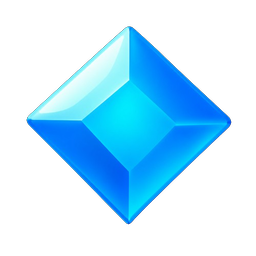
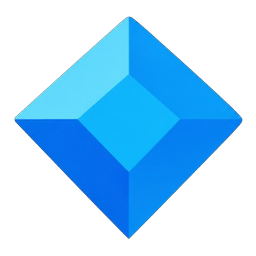
v68.3: gemmes/cristal/fleur = nouvelles images posees sur le bloc, cristal a 2 vies (fissure puis recolte), cadre de la grille symetrique (cache trop etroit), icone medaille

Changed region(s): [[0.0625, 0.0625, 0.9688, 0.9375], [0.5625, 0.5938, 0.5938, 0.625], [0.5312, 0.625, 0.5625, 0.6562]]

diff --git a/index.html b/index.html
@@ -769,7 +769,7 @@ body.noAds #bannerBox{visibility:hidden}
         <div class="statBox"><div class="sv" id="meStreak">0</div><div class="sl">Day Streak</div></div>
       </div>
       <div class="meRows" style="margin-top:22px">
-        <button class="btn3d green" id="meAch" style="--k:1"><svg class="ico" viewBox="0 0 24 24"><circle cx="12" cy="8.4" r="5.6"/><path d="M8.6 12.9 6.8 21l5.2-2.6 5.2 2.6-1.8-8.1A7.4 7.4 0 0 1 12 14a7.4 7.4 0 0 1-3.4-1.1z"/></svg>Medal<em>›</em></button>
+        <button class="btn3d green" id="meAch" style="--k:1"><svg class="ico" viewBox="3.2 0.8 17.6 21.4"><path d="M6.8 1.8h3.6l1.6 4.4 1.6-4.4h3.6l-3.2 8.2a6.4 6.4 0 0 0-4 0z"/><path fill-rule="evenodd" d="M12 9.4a5.9 5.9 0 1 0 0 11.8 5.9 5.9 0 0 0 0-11.8zM12 12l1.1 2.4 2.6.3-1.9 1.8.5 2.6-2.3-1.3-2.3 1.3.5-2.6-1.9-1.8 2.6-.3z"/></svg>Medal<em>›</em></button>
         <button class="btn3d lav" id="meAdv"><svg class="ico" viewBox="0 0 24 24"><circle cx="12" cy="12" r="9.2" fill="none" stroke="#fff" stroke-width="2.7"/><path d="M12 6.8V12l3.6 2.1" fill="none" stroke="#fff" stroke-width="2.7" stroke-linecap="round" stroke-linejoin="round"/></svg>Adventure<em>›</em></button>
         <button class="btn3d gold" id="meNoAds"><img class="ico" src="assets/ui/noads.png" alt="" style="width:30px;height:30px;object-fit:contain"/><span id="meNoAdsTxt">Remove Ads</span><em>›</em></button>
         <button class="btn3d lav" id="meIQ"><svg class="ico" viewBox="0 0 24 24"><path d="M12 3L3 20h18z" fill="none" stroke="#fff" stroke-width="2.4" stroke-linejoin="round"/><path d="M12 3v17" stroke="#fff" stroke-width="2"/></svg>Block Puzzle<em>›</em></button>
@@ -912,7 +912,7 @@ body.noAds #bannerBox{visibility:hidden}
           </div>
         </div>
         <div class="sepLine"></div>
-        <button class="btn3d green" id="btnSetMedal"><svg class="ico" viewBox="0 0 24 24"><circle cx="12" cy="8.4" r="5.6"/><path d="M8.6 12.9 6.8 21l5.2-2.6 5.2 2.6-1.8-8.1A7.4 7.4 0 0 1 12 14a7.4 7.4 0 0 1-3.4-1.1z"/></svg>Medal</button>
+        <button class="btn3d green" id="btnSetMedal"><svg class="ico" viewBox="3.2 0.8 17.6 21.4"><path d="M6.8 1.8h3.6l1.6 4.4 1.6-4.4h3.6l-3.2 8.2a6.4 6.4 0 0 0-4 0z"/><path fill-rule="evenodd" d="M12 9.4a5.9 5.9 0 1 0 0 11.8 5.9 5.9 0 0 0 0-11.8zM12 12l1.1 2.4 2.6.3-1.9 1.8.5 2.6-2.3-1.3-2.3 1.3.5-2.6-1.9-1.8 2.6-.3z"/></svg>Medal</button>
         <button class="btn3d lav" id="btnMoreSet"><svg class="ico" viewBox="0 0 24 24"><path d="M19.14 12.94c.04-.31.06-.62.06-.94s-.02-.63-.07-.94l2.03-1.58a.49.49 0 0 0 .12-.61l-1.92-3.32a.49.49 0 0 0-.59-.22l-2.39.95a7.03 7.03 0 0 0-1.62-.94l-.36-2.54a.48.48 0 0 0-.48-.4h-3.84c-.24 0-.43.17-.47.4l-.36 2.54c-.59.24-1.13.57-1.62.94l-2.39-.95a.49.49 0 0 0-.59.22L2.63 8.87a.48.48 0 0 0 .12.61l2.03 1.58c-.05.31-.07.63-.07.94s.02.63.07.94l-2.03 1.58a.49.49 0 0 0-.12.61l1.92 3.32c.12.22.37.3.59.22l2.39-.95c.5.38 1.03.7 1.62.94l.36 2.54c.05.23.24.4.48.4h3.84c.24 0 .44-.17.48-.4l.36-2.54a7.03 7.03 0 0 0 1.62-.94l2.39.95c.22.08.47 0 .59-.22l1.92-3.32a.49.49 0 0 0-.12-.61l-2.01-1.58zM12 15.6a3.6 3.6 0 1 1 0-7.2 3.6 3.6 0 0 1 0 7.2z"/></svg>More Settings</button>
         <div id="setGame">
           <div class="sepLine"></div>
@@ -2414,7 +2414,7 @@ return false}
 function hintFor(obj){
 if(obj[0]==='lines')return 'Blast '+obj[1]+' lines';
 if(obj[0]==='score')return 'Reach '+obj[1].toLocaleString('en-US')+' pts';
-if(obj[0]==='items'){const n={1:'blue gems',2:'orange gems',3:'bushes',4:'ice',5:'locks'};return 'Collect '+Object.keys(obj[1]).map(k=>obj[1][k]+' '+n[k]).join(' + ')}
+if(obj[0]==='items'){const n={1:'blue gems',2:'orange gems',3:'bushes',4:'crystals',5:'locks'};return 'Collect '+Object.keys(obj[1]).map(k=>obj[1][k]+' '+n[k]).join(' + ')}
 return 'Clear the whole board'}
 function itemTotal(it){let n=0;for(const k in it)n+=it[k];return n}
 /* v67 : plus de niveaux chaine/combo — lignes, score, ou ELEMENTS A RECUPERER (gemmes bleues 1, oranges 2, buissons 3) */
@@ -2694,7 +2694,7 @@ const g=c.createRadialGradient(cx,cy,1,cx,cy,bw*.32);
 g.addColorStop(0,'#fff3b0');g.addColorStop(.5,'#ff8c28');g.addColorStop(1,'rgba(255,80,20,0)');
 c.fillStyle=g;c.beginPath();c.arc(cx,cy,bw*.32,0,6.3);c.fill();c.restore()}
 function drawBushIcon(c,x,y,s){
-const im=UIAssets.get('bush');if(im){const q=s*.02;c.drawImage(im,x+q,y+q,s-q*2,s-q*2);return}
+const im=UIAssets.get('bush');if(im){const d=s*.66;c.drawImage(im,x+(s-d)/2,y+(s-d)/2,d,d);return}
 const p=s*.045,w=s-p*2;c.save();c.translate(x+p,y+p);
 const g=c.createLinearGradient(0,0,0,w);g.addColorStop(0,'#46C446');g.addColorStop(1,'#1E8F2A');
 c.fillStyle=g;rr(c,0,0,w,w,w*.12);c.fill();c.lineWidth=Math.max(1.5,w*.05);c.strokeStyle='#176B1F';c.stroke();
@@ -2717,16 +2717,13 @@ c.stroke();
 c.lineWidth=3;c.strokeStyle='#9A6200';const g=c.createLinearGradient(0,-3,0,19);g.addColorStop(0,'#FFD84A');g.addColorStop(1,'#F0A000');c.fillStyle=g;
 rr(c,-15,-3,30,23,5);c.fill();c.stroke();
 c.fillStyle='#6B3F00';c.beginPath();c.arc(0,8,3.6,0,6.3);c.fill();c.fillRect(-1.5,8,3,7);c.restore()}
-function drawIceOverlay(c,x,y,s,hp){const p=s*.035;c.save();
-const imI=UIAssets.get('ice');if(imI){c.globalAlpha=.94;c.drawImage(imI,x+p,y+p,s-2*p,s-2*p);c.globalAlpha=1;
-if(hp<=1){c.strokeStyle='rgba(40,95,170,.9)';c.lineWidth=Math.max(1.4,s*.05);c.lineCap='round';c.lineJoin='round';c.beginPath();c.moveTo(x+s*.52,y+s*.1);c.lineTo(x+s*.42,y+s*.4);c.lineTo(x+s*.62,y+s*.55);c.lineTo(x+s*.46,y+s*.92);c.moveTo(x+s*.42,y+s*.4);c.lineTo(x+s*.16,y+s*.52);c.stroke()}
-c.restore();return}
-const g=c.createLinearGradient(x,y,x+s,y+s);g.addColorStop(0,'rgba(240,252,255,.9)');g.addColorStop(1,'rgba(150,208,248,.82)');
-c.fillStyle=g;rr(c,x+p,y+p,s-2*p,s-2*p,s*.14);c.fill();
-c.strokeStyle='rgba(255,255,255,.95)';c.lineWidth=Math.max(1.5,s*.04);c.stroke();
-c.fillStyle='rgba(255,255,255,.65)';c.beginPath();c.moveTo(x+s*.16,y+s*.34);c.lineTo(x+s*.34,y+s*.14);c.lineTo(x+s*.44,y+s*.2);c.lineTo(x+s*.24,y+s*.42);c.closePath();c.fill();
-if(hp<=1){c.strokeStyle='rgba(50,105,175,.9)';c.lineWidth=Math.max(1.4,s*.05);c.lineCap='round';c.lineJoin='round';c.beginPath();
-c.moveTo(x+s*.52,y+s*.1);c.lineTo(x+s*.42,y+s*.4);c.lineTo(x+s*.62,y+s*.55);c.lineTo(x+s*.46,y+s*.92);c.moveTo(x+s*.42,y+s*.4);c.lineTo(x+s*.16,y+s*.52);c.stroke()}
+function drawIceOverlay(c,x,y,s,hp){c.save();
+const im=UIAssets.get('ice'),d=s*.74,ox=x+(s-d)/2,oy=y+(s-d)/2;
+if(im)c.drawImage(im,ox,oy,d,d);else{c.fillStyle='#8FD3FF';c.beginPath();c.moveTo(x+s*.5,y+s*.1);c.lineTo(x+s*.78,y+s*.35);c.lineTo(x+s*.66,y+s*.9);c.lineTo(x+s*.34,y+s*.9);c.lineTo(x+s*.22,y+s*.35);c.closePath();c.fill()}
+if(hp<=1){/* fissure : le cristal a deja pris un coup */
+c.strokeStyle='rgba(255,255,255,.95)';c.lineWidth=Math.max(1.6,s*.05);c.lineCap='round';c.lineJoin='round';
+c.beginPath();c.moveTo(x+s*.5,y+s*.2);c.lineTo(x+s*.43,y+s*.42);c.lineTo(x+s*.56,y+s*.56);c.lineTo(x+s*.47,y+s*.8);c.stroke();
+c.strokeStyle='rgba(20,80,170,.55)';c.lineWidth=Math.max(1,s*.025);c.beginPath();c.moveTo(x+s*.52,y+s*.21);c.lineTo(x+s*.45,y+s*.42);c.lineTo(x+s*.58,y+s*.56);c.lineTo(x+s*.49,y+s*.8);c.stroke()}
 c.restore()}
 function drawGemIcon(c,x,y,s,t,gt){
 if(gt===3){drawBushIcon(c,x,y,s);return}
@@ -2759,7 +2756,7 @@ c.fillStyle=emptyCol;
 rr(c,bx,by,bw,bw,Math.max(1.5,bw*.045));c.fill();
 c.restore()}
 function buildBoardCache(envC){
-boardCacheW=cell*N+8;boardCacheH=cell*N+8;
+boardCacheW=gx+cell*N+8;boardCacheH=cell*N+8;
 boardCacheCv=document.createElement('canvas');
 boardCacheCv.width=Math.ceil(boardCacheW*TXDPR);
 boardCacheCv.height=Math.ceil(boardCacheH*TXDPR);
@@ -2771,6 +2768,7 @@ grd.addColorStop(.90,envC);
 grd.addColorStop(1,mixHex(envC,'#ffffff',.12));
 c.fillStyle=grd;
 rr(c,gx-4,gy-4,cell*N+8,cell*N+8,7);c.fill();
+c.save();c.lineWidth=1.6;c.strokeStyle='rgba(255,255,255,.13)';rr(c,gx-3.2,gy-3.2,cell*N+6.4,cell*N+6.4,6.4);c.stroke();c.lineWidth=2;c.strokeStyle='rgba(0,0,0,.18)';rr(c,gx-1,gy-1,cell*N+2,cell*N+2,5);c.stroke();c.restore();
 rr(c,gx,gy,cell*N,cell*N,4);
 c.fillStyle=boardBGCache;c.fill();
 for(let r=0;r<N;r++)for(let cc=0;cc<N;cc++)drawEmpty(c,gx+cc*cell,gy+r*cell,cell)}
@@ -2980,7 +2978,7 @@ if(cnt===N)grid[Math.floor(Math.random()*N)][c]=null}
 for(let r=0;r<N;r++)for(let c=0;c<N;c++){
 const b=grid[r][c];if(!b)continue;
 b.t=now+(N-1-r)*110+c*14}}
-function simGrid(){return grid.map(row=>row.map(v=>v?(v.ice||v.lock?2:1):0))}
+function simGrid(){return grid.map(row=>row.map(v=>v?(v.lock?2:1):0))}
 function simPlace(sim,m,r,c){
 for(let i=0;i<m.length;i++)for(let j=0;j<m[i].length;j++)
 if(m[i][j]&&(r+i>=N||c+j>=N||sim[r+i][c+j]))return null;
@@ -3382,7 +3380,7 @@ bctx.strokeStyle='#FFFFFF';bctx.lineWidth=2;bctx.setLineDash([6,5]);
 bctx.strokeRect(gx+tutHint.c*cell-3,gy+tutHint.r*cell-3,tutHint.w*cell+6,tutHint.h*cell+6);
 bctx.restore()}
 /* v67.2 : glace et cadenas comptent comme des cases NON remplies (la ligne ne part pas tant qu'ils sont la) */
-const solid=b=>b&&!b.ice&&!b.lock;
+const solid=b=>b&&!b.lock;
 function findFull(g){const rows=[],cols=[];
 for(let r=0;r<N;r++)if(g[r].every(solid))rows.push(r);
 for(let c=0;c<N;c++){let f=true;
@@ -3528,6 +3526,8 @@ rows.forEach(r=>sweeps.push({t:'r',i:r,t0:t0}));
 cols.forEach(c=>sweeps.push({t:'c',i:c,t0:t0}));
 if(P.thread){rows.forEach(r=>lcThread(r,'h',t0+40));cols.forEach(c=>lcThread(c,'v',t0+40))}
 cleared.forEach((rc,idx)=>{const r=rc[0],c=rc[1],obj=grid[r][c];
+if(obj.ice>1){obj.ice--;obj.crk=performance.now();SFX.crack();const q4=cellCenter(r,c);for(let z=0;z<7;z++)particles.push({x:q4.x-boardRect.left,y:q4.y-boardRect.top,vx:(Math.random()-.5)*.05,vy:-(.01+Math.random()*.035),sz:cell*.08,col:z%2?'#CFEFFF':'#fff',t0:performance.now(),life:520,sh:4,g:0,rot:0,vr:0});
+sx+=c;sy+=r;return}
 clearFx.push({r,c,ci:obj.c,t0:t0+idx*16,st:theme});grid[r][c]=null;
 const px0=gx+c*cell+cell/2,py0=gy+r*cell+cell/2;
 const tile=getTile(stCur.id,obj.c);
@@ -3535,12 +3535,8 @@ const st2=t0+lcWaveDelay(P,r,c,rows,cols);
 lcFx.push({r,c,ci:obj.c,t0:st2,tile,prof:P});
 lcSpawnParts(P,obj.c,px0,py0,tile,st2+(P.ant||30)+(P.flash||0));
 if(obj.gem)collectGem(r,c,obj.gem);
+if(obj.ice===1)collectIce(r,c);
 sx+=c;sy+=r});
-{const hitI=new Set();
-cleared.forEach(rc=>{[[1,0],[-1,0],[0,1],[0,-1]].forEach(d=>{const rr3=rc[0]+d[0],cc3=rc[1]+d[1];
-if(rr3<0||cc3<0||rr3>=N||cc3>=N)return;const b3=grid[rr3][cc3];
-if(b3&&b3.ice&&!hitI.has(rr3*N+cc3)){hitI.add(rr3*N+cc3);b3.ice--;
-if(b3.ice<=0){grid[rr3][cc3]=null;collectIce(rr3,cc3)}else{SFX.crack();const q3=cellCenter(rr3,cc3);for(let z=0;z<5;z++)particles.push({x:q3.x-boardRect.left,y:q3.y-boardRect.top,vx:(Math.random()-.5)*.04,vy:-(.01+Math.random()*.03),sz:cell*.08,col:'#CFEFFF',t0:performance.now(),life:500,sh:4,g:0,rot:0,vr:0})}}})})}
 if(particles.length>300){
 particles.splice(0,particles.length-300)}
 if(combo>=4){for(let i=0;i<8;i++)particles.push({
@@ -4026,7 +4022,7 @@ for(const off of OFFS){const rr0=r0+off[0],cc0=c0+off[1];
 if(drag.p.bomb?(rr0>=0&&cc0>=0&&rr0<N&&cc0<N):canPlaceAt(drag.p.m,rr0,cc0))return{r:rr0,c:cc0}}
 return null}
 function simulateChain(sr,sc){
-const g=grid.map(row=>row.map(v=>v?{v:(v.ice||v.lock)?2:1}:null));
+const g=grid.map(row=>row.map(v=>v?{v:v.lock?2:1}:null));
 drag.p.m.forEach((row,dr)=>row.forEach((v,dc)=>{if(v)g[sr+dr][sc+dc]={v:1}}));
 const waves=[];let guard=0;
 while(guard++<10){const rows=[],cols=[];
@@ -5980,7 +5976,7 @@ get(){try{return JSON.parse(store.get('bp_att')||'{}')}catch(e){return{}}},
 first(l,i){return !(this.get()[this.key(l,i)]>0)},
 bump(l,i){const a=this.get(),k=this.key(l,i);a[k]=(a[k]||0)+1;store.set('bp_att',JSON.stringify(a))}};
 const Lvl=(()=>{
-const INFO={1:['Blue gems','Clear a line or column through a gem to collect it.'],2:['Orange gems','Collect these too! Clear the line or column they sit in.'],3:['Bushes','Clear a line or column through a bush to remove it.'],4:['Ice','Clear lines next to the ice to break it. It takes two hits!'],5:['Keys & locks','Clear a line through a key to open a lock.']};
+const INFO={1:['Blue gems','Clear a line or column through a gem to collect it.'],2:['Orange gems','Collect these too! Clear the line or column they sit in.'],3:['Bushes','Clear a line or column through a bush to remove it.'],4:['Crystals','Crystals have 2 lives. Clear their line once to crack them, twice to collect them!'],5:['Keys & locks','Clear a line through a key to open a lock.']};
 const seen=()=>{try{return JSON.parse(store.get('bp_itseen')||'{}')}catch(e){return{}}};
 let phase='';
 function pctLvl(){if(!lvl.ev&&Pct.levels&&Pct.levels[advLevel+1]!=null)return +Pct.levels[advLevel+1];const i=lvl.ev?(6+lvl.k*3):advLevel;const j=((Math.sin((i+1)*78.233)*43758.5453)%1+1)%1;
